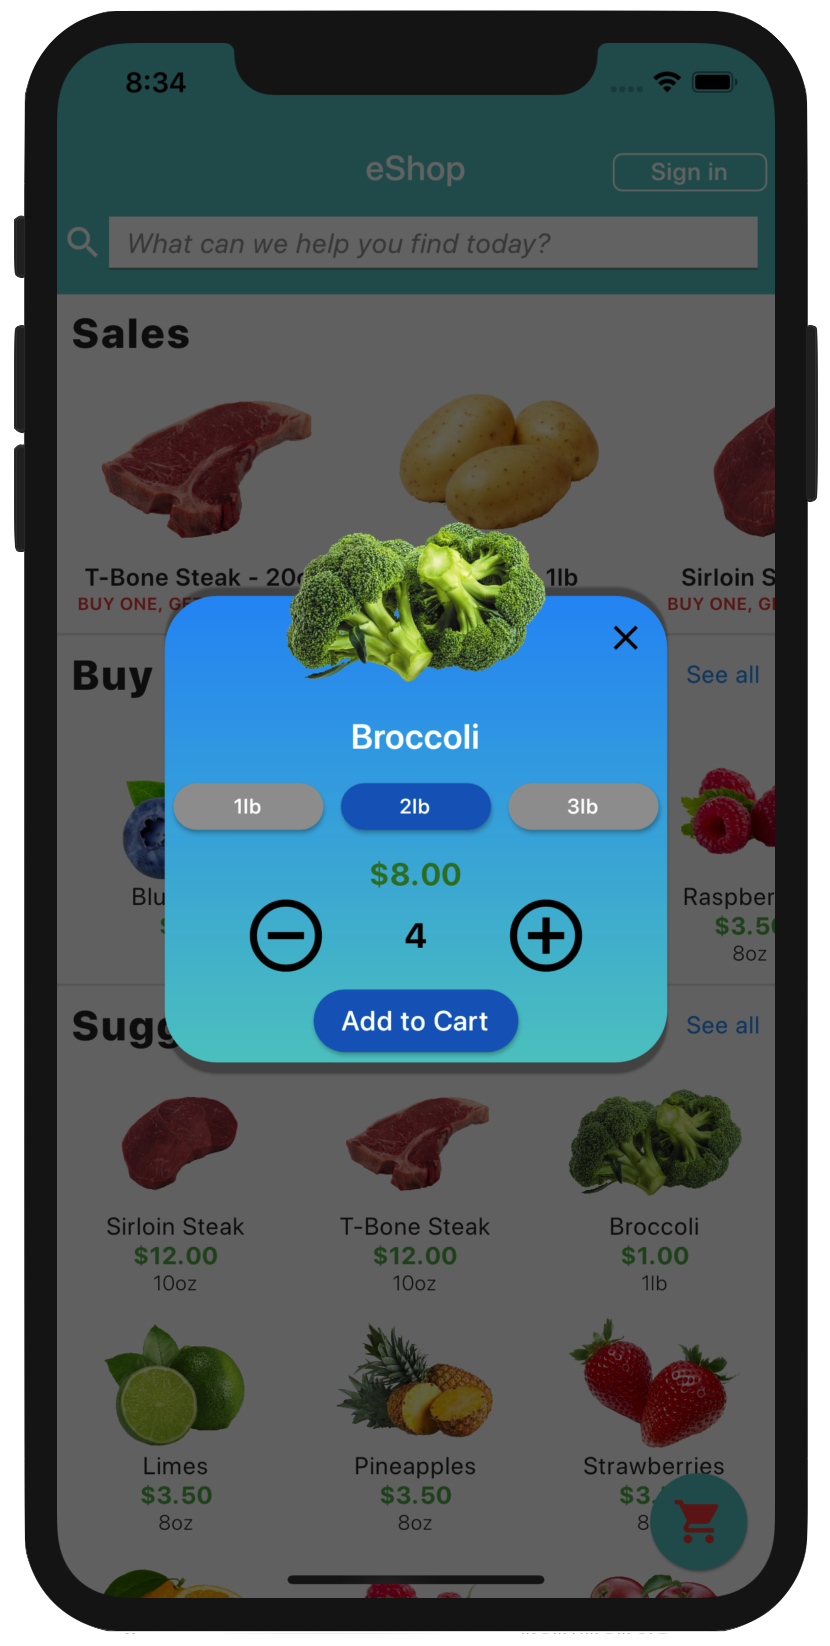
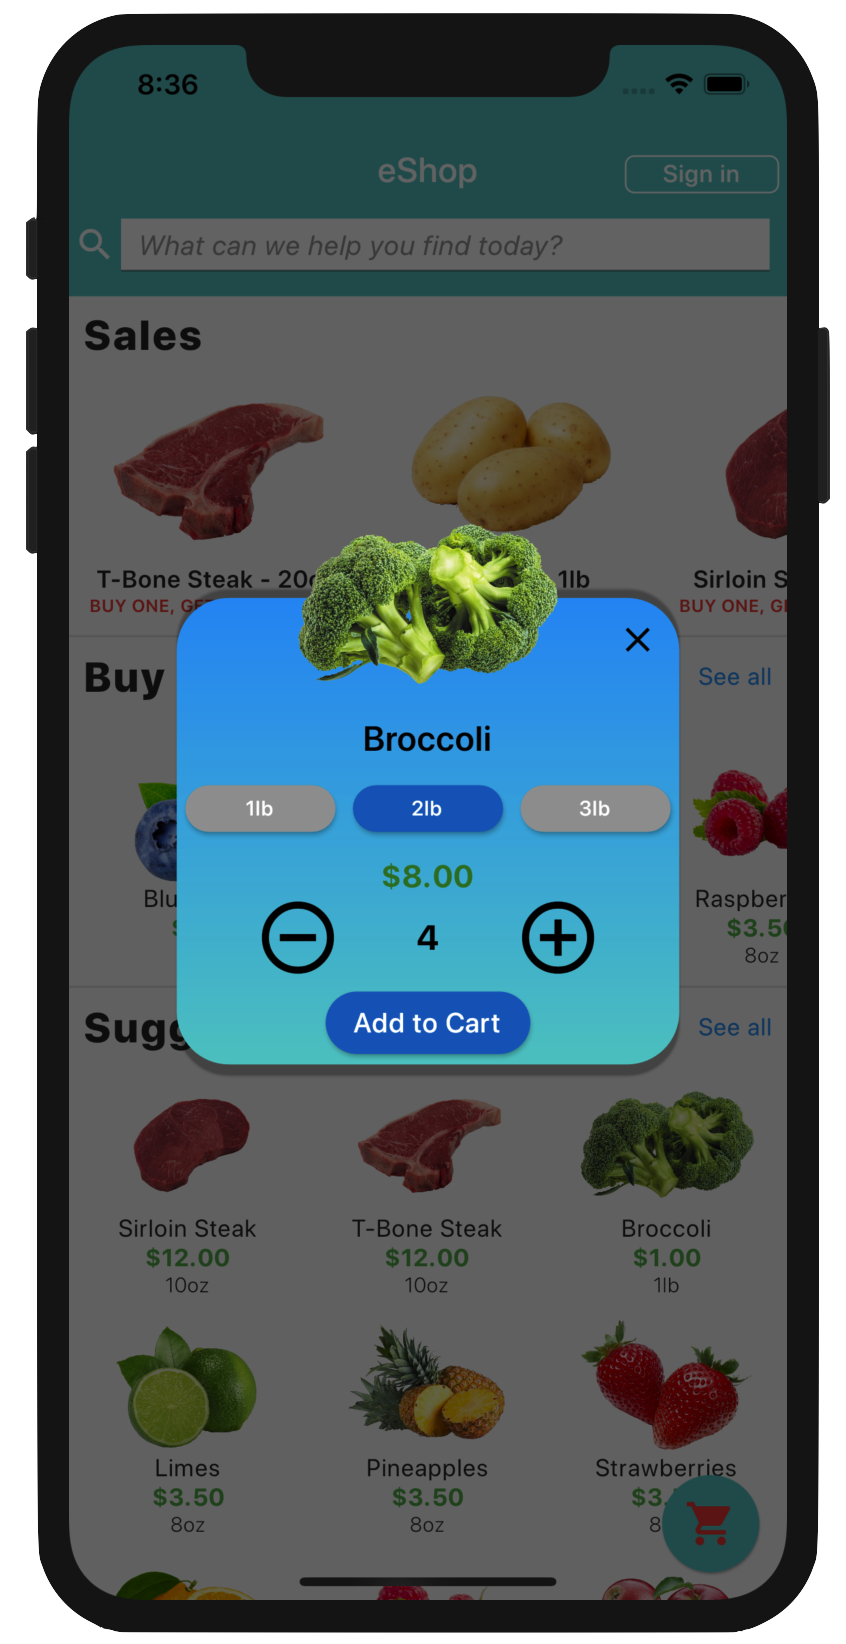
SS change

diff --git a/lib/widgets/add_to_cart.dart b/lib/widgets/add_to_cart.dart
@@ -155,7 +155,7 @@ class _AddToCartState extends State<AddToCart> with SingleTickerProviderStateMix
                 children: <Widget>[
                   Text("${widget.item.name}",
                       style: TextStyle(
-                          color: Colors.white,
+                          color: Colors.black,
                           fontSize: 20.0,
                           fontWeight: FontWeight.w600)),
                   Container(
